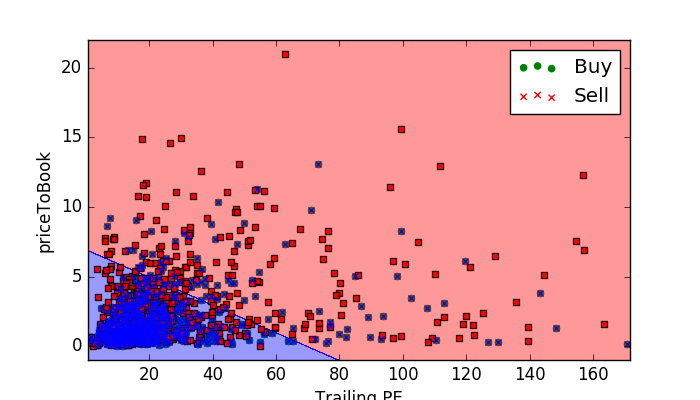
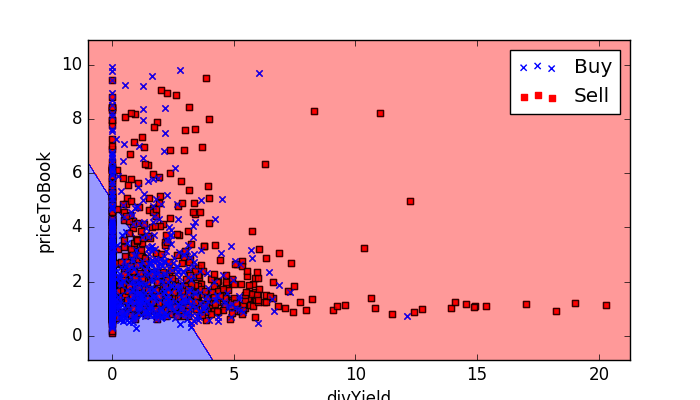
more machine learning stuff

diff --git a/app/equity/ml_eqs/adalinegd.py b/app/equity/ml_eqs/adalinegd.py
@@ -1,0 +1,105 @@
+import matplotlib as mpl
+mpl.use('Agg')
+import pandas as pd
+import matplotlib.pyplot as plt
+import numpy as np
+from app.equity.ml_eqs.ml_utils import update_check
+
+class AdalineGD(object):
+    """ADAptive LInear NEuron classifier
+    
+        Parameters
+        ------------
+        eta : float
+            Learning rate (between 0.0 and 1.0)
+        n_iter : int
+            Passes over the training dataset.
+    
+        Attributes
+        -----------
+        w_ : 1d-array
+            Weights after fitting.
+        errors_ : list
+            Number of misclassifications in every epoch.
+    
+        """
+    def __init__(self, eta=0.01, n_iter=50):
+        self.eta = eta
+        self.n_iter = n_iter
+
+    def fit(self, X, y):
+        """ Fit training data.
+
+        Parameters
+        ----------
+        X : {array-like}, shape = [n_samples, n_features]
+            Training vectors, where n_samples is the number of samples and
+            n_features is the number of features.
+        y : array-like, shape = [n_samples]
+            Target values.
+
+        Returns
+        -------
+        self : object
+
+        """
+        self.w_ = np.zeros(1 + X.shape[1])
+        self.cost_ = []
+        for i in range(self.n_iter):
+            output = self.net_input(X)
+            errors = (y - output)
+            temp = tuple(self.w_)
+            self.w_[1:] += self.eta * X.T.dot(errors)
+            self.w_[0] += self.eta * errors.sum()
+            if update_check(temp, self.w_):
+                print(str(self.w_) + "----" + str(i))
+            cost = (errors**2).sum() / 2.0
+            self.cost_.append(cost)
+        return self
+
+    def net_input(self, X):
+        """Calculate net input"""
+        return np.dot(X, self.w_[1:]) + self.w_[0]
+
+    def activation(self, X):
+        """Compute linear activation"""
+        return self.net_input(X)
+
+    def predict(self, X):
+        """Return class label after unit step"""
+        return np.where(self.activation(X) >= 0.0, 1, -1)
+    
+def main2():
+    y,X = get_data()
+    
+    # standardize features
+    X_std = np.copy(X)
+    X_std[:,0] = (X[:,0] - X[:,0].mean()) / X[:,0].std()
+    X_std[:,1] = (X[:,1] - X[:,1].mean()) / X[:,1].std()
+    
+    ada = AdalineGD(n_iter=15, eta=0.01)
+    ada.fit(X_std, y)
+    
+    plot_decision_regions(X_std, y, classifier=ada)
+    plt.title('Adaline - Gradient Descent')
+    plt.xlabel('sepal length [standardized]')
+    plt.ylabel('petal length [standardized]')
+    plt.legend(loc='upper left')
+    plt.tight_layout()
+    plt.savefig(PIC_LOC + 'adaline_2.png', dpi=300)
+    plt.close()
+    
+    plt.plot(range(1, len(ada.cost_) + 1), ada.cost_, marker='o')
+    plt.xlabel('Epochs')
+    plt.ylabel('Sum-squared-error')
+    
+    plt.tight_layout()
+    plt.savefig(PIC_LOC + 'adaline_3.png', dpi=300)
+    # plt.show()
+    plt.close()
+
+if __name__ == "__main__":
+    # import pdb; pdb.set_trace()
+    # main1()
+    main2()
+    

diff --git a/app/equity/ml_eqs/run_ml.py b/app/equity/ml_eqs/run_ml.py
@@ -14,6 +14,7 @@ from app.equity.analysis_eqs.utils_analysis import loadDataToDB, getKeyStatsData
 from app.equity.data_grab import ms_dg_helper
 from app.utils.db_utils import DBHelper
 from app.equity.ml_eqs.perceptron import Perceptron
+from app.equity.ml_eqs.adalinegd import AdalineGD
 from app.equity.ml_eqs.ml_utils import plot_decision_regions
 
 IMG_PATH = '/home/ubuntu/workspace/finance/app/static/img/ml_imgs/'
@@ -37,7 +38,8 @@ def run(inputs, load_data=False):
     df = selectInputs(df, inputs)
 
     # Run Perceptron
-    run_perceptron(df)
+    # run_perceptron(df)
+    run_adalinegd(df)
 
 
 def selectInputs(df, inputs):
@@ -103,14 +105,14 @@ def run_perceptron(df, eta=0.1, n_iter=10):
     '''
     t0 = time.time()
     y = df['target']
-    X = df[['trailingPE','priceToSales']]
+    X = df[['divYield','priceToBook']]
     buy = df[df['target'] > 0][list(X.columns)].values
     sell = df[df['target'] < 0][list(X.columns)].values
     plt.figure(figsize=(7,4))
-    plt.scatter(buy[:, 0], buy[:, 1], color='green', marker='o', label='Buy')
-    plt.scatter(sell[:, 0], sell[:, 1], color='red', marker='x', label='Sell')
-    plt.xlabel('Trailing PE')
-    plt.ylabel('priceToBook')
+    plt.scatter(buy[:, 0], buy[:, 1], color='blue', marker='x', label='Buy')
+    plt.scatter(sell[:, 0], sell[:, 1], color='red', marker='s', label='Sell')
+    plt.xlabel(list(X.columns)[0])
+    plt.ylabel(list(X.columns)[1])
     plt.legend()
     ppn = Perceptron(eta, n_iter)
     ppn.fit(X.values, y.values)
@@ -129,8 +131,30 @@ def run_perceptron(df, eta=0.1, n_iter=10):
     app.logger.info("Done training data and creating charts, took {0} seconds".format(t1-t0))
     print("Done training data and creating charts, took {0} seconds".format(t1-t0))
     
+def run_adalinegd(df, eta=0.1, n_iter=10):
+    t0 = time.time()
+    y = df['target']
+    X = df[['divYield','priceToBook']]
+    fig, ax = plt.subplots(nrows=1, ncols=2, figsize=(8, 4))
+    ada1 = AdalineGD(n_iter=10, eta=0.01).fit(X, y)
+    ax[0].plot(range(1, len(ada1.cost_) + 1), np.log10(ada1.cost_), marker='o')
+    ax[0].set_xlabel('Epochs')
+    ax[0].set_ylabel('log(Sum-squared-error)')
+    ax[0].set_title('Adaline - Learning rate 0.01')
     
+    ada2 = AdalineGD(n_iter=10, eta=0.0001).fit(X, y)
+    ax[1].plot(range(1, len(ada2.cost_) + 1), ada2.cost_, marker='o')
+    ax[1].set_xlabel('Epochs')
+    ax[1].set_ylabel('Sum-squared-error')
+    ax[1].set_title('Adaline - Learning rate 0.0001')
     
+    plt.tight_layout()
+    plt.savefig(IMG_PATH + "adaline_1.png", dpi=300)
+    plt.close()
+    # plt.show()
+    
+
+
 
 if __name__ == "__main__":
     run(['trailingPE', 'priceToBook', 'priceToSales', 'divYield'])
